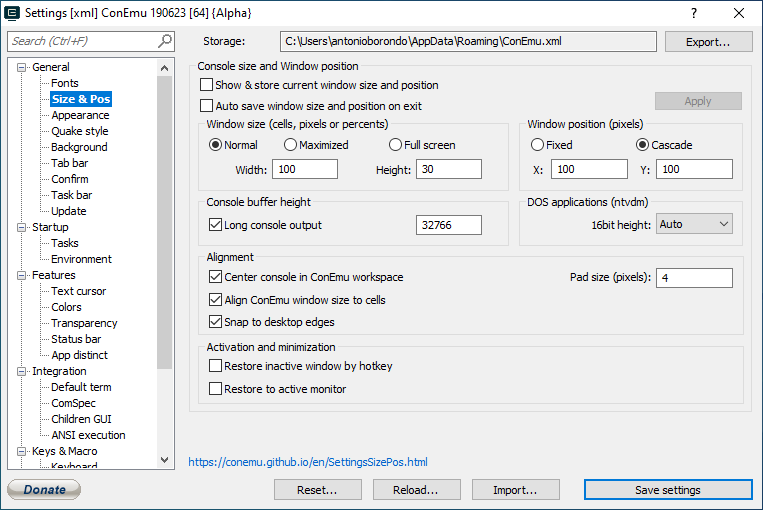
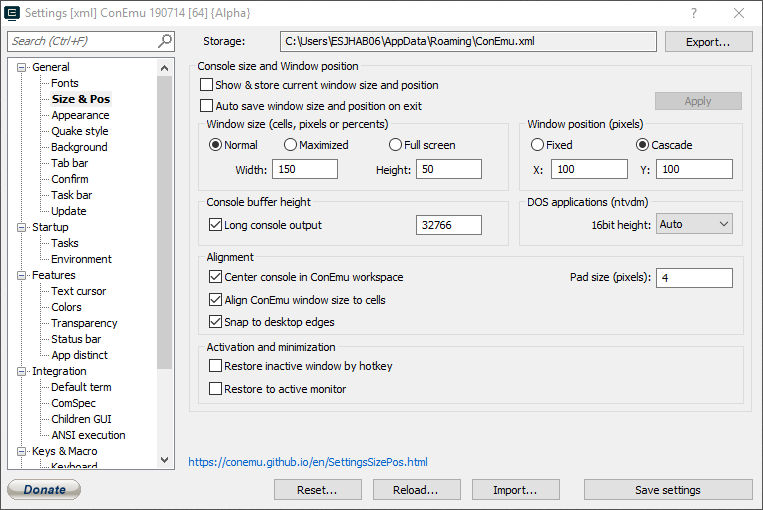
Update ConEmu settings size & pos

diff --git a/command_line/readme.md b/command_line/readme.md
@@ -59,7 +59,7 @@ Go to settings and change the following:
 
 ### Settings > General > Size & Pos
 
-Uncheck "Show & store current window size and position" and "Auto save window size and position on exit". Set "Window size (cells, pixels or percents)" to `100x30` and "Window position (pixels)" to `100,100`:
+Uncheck "Show & store current window size and position" and "Auto save window size and position on exit". Set "Window size (cells, pixels or percents)" to `150x50` and "Window position (pixels)" to `100,100`:
 
 ![Screenshot](images/conemu_settings_general_size_&_pos.png?raw=true)
 
